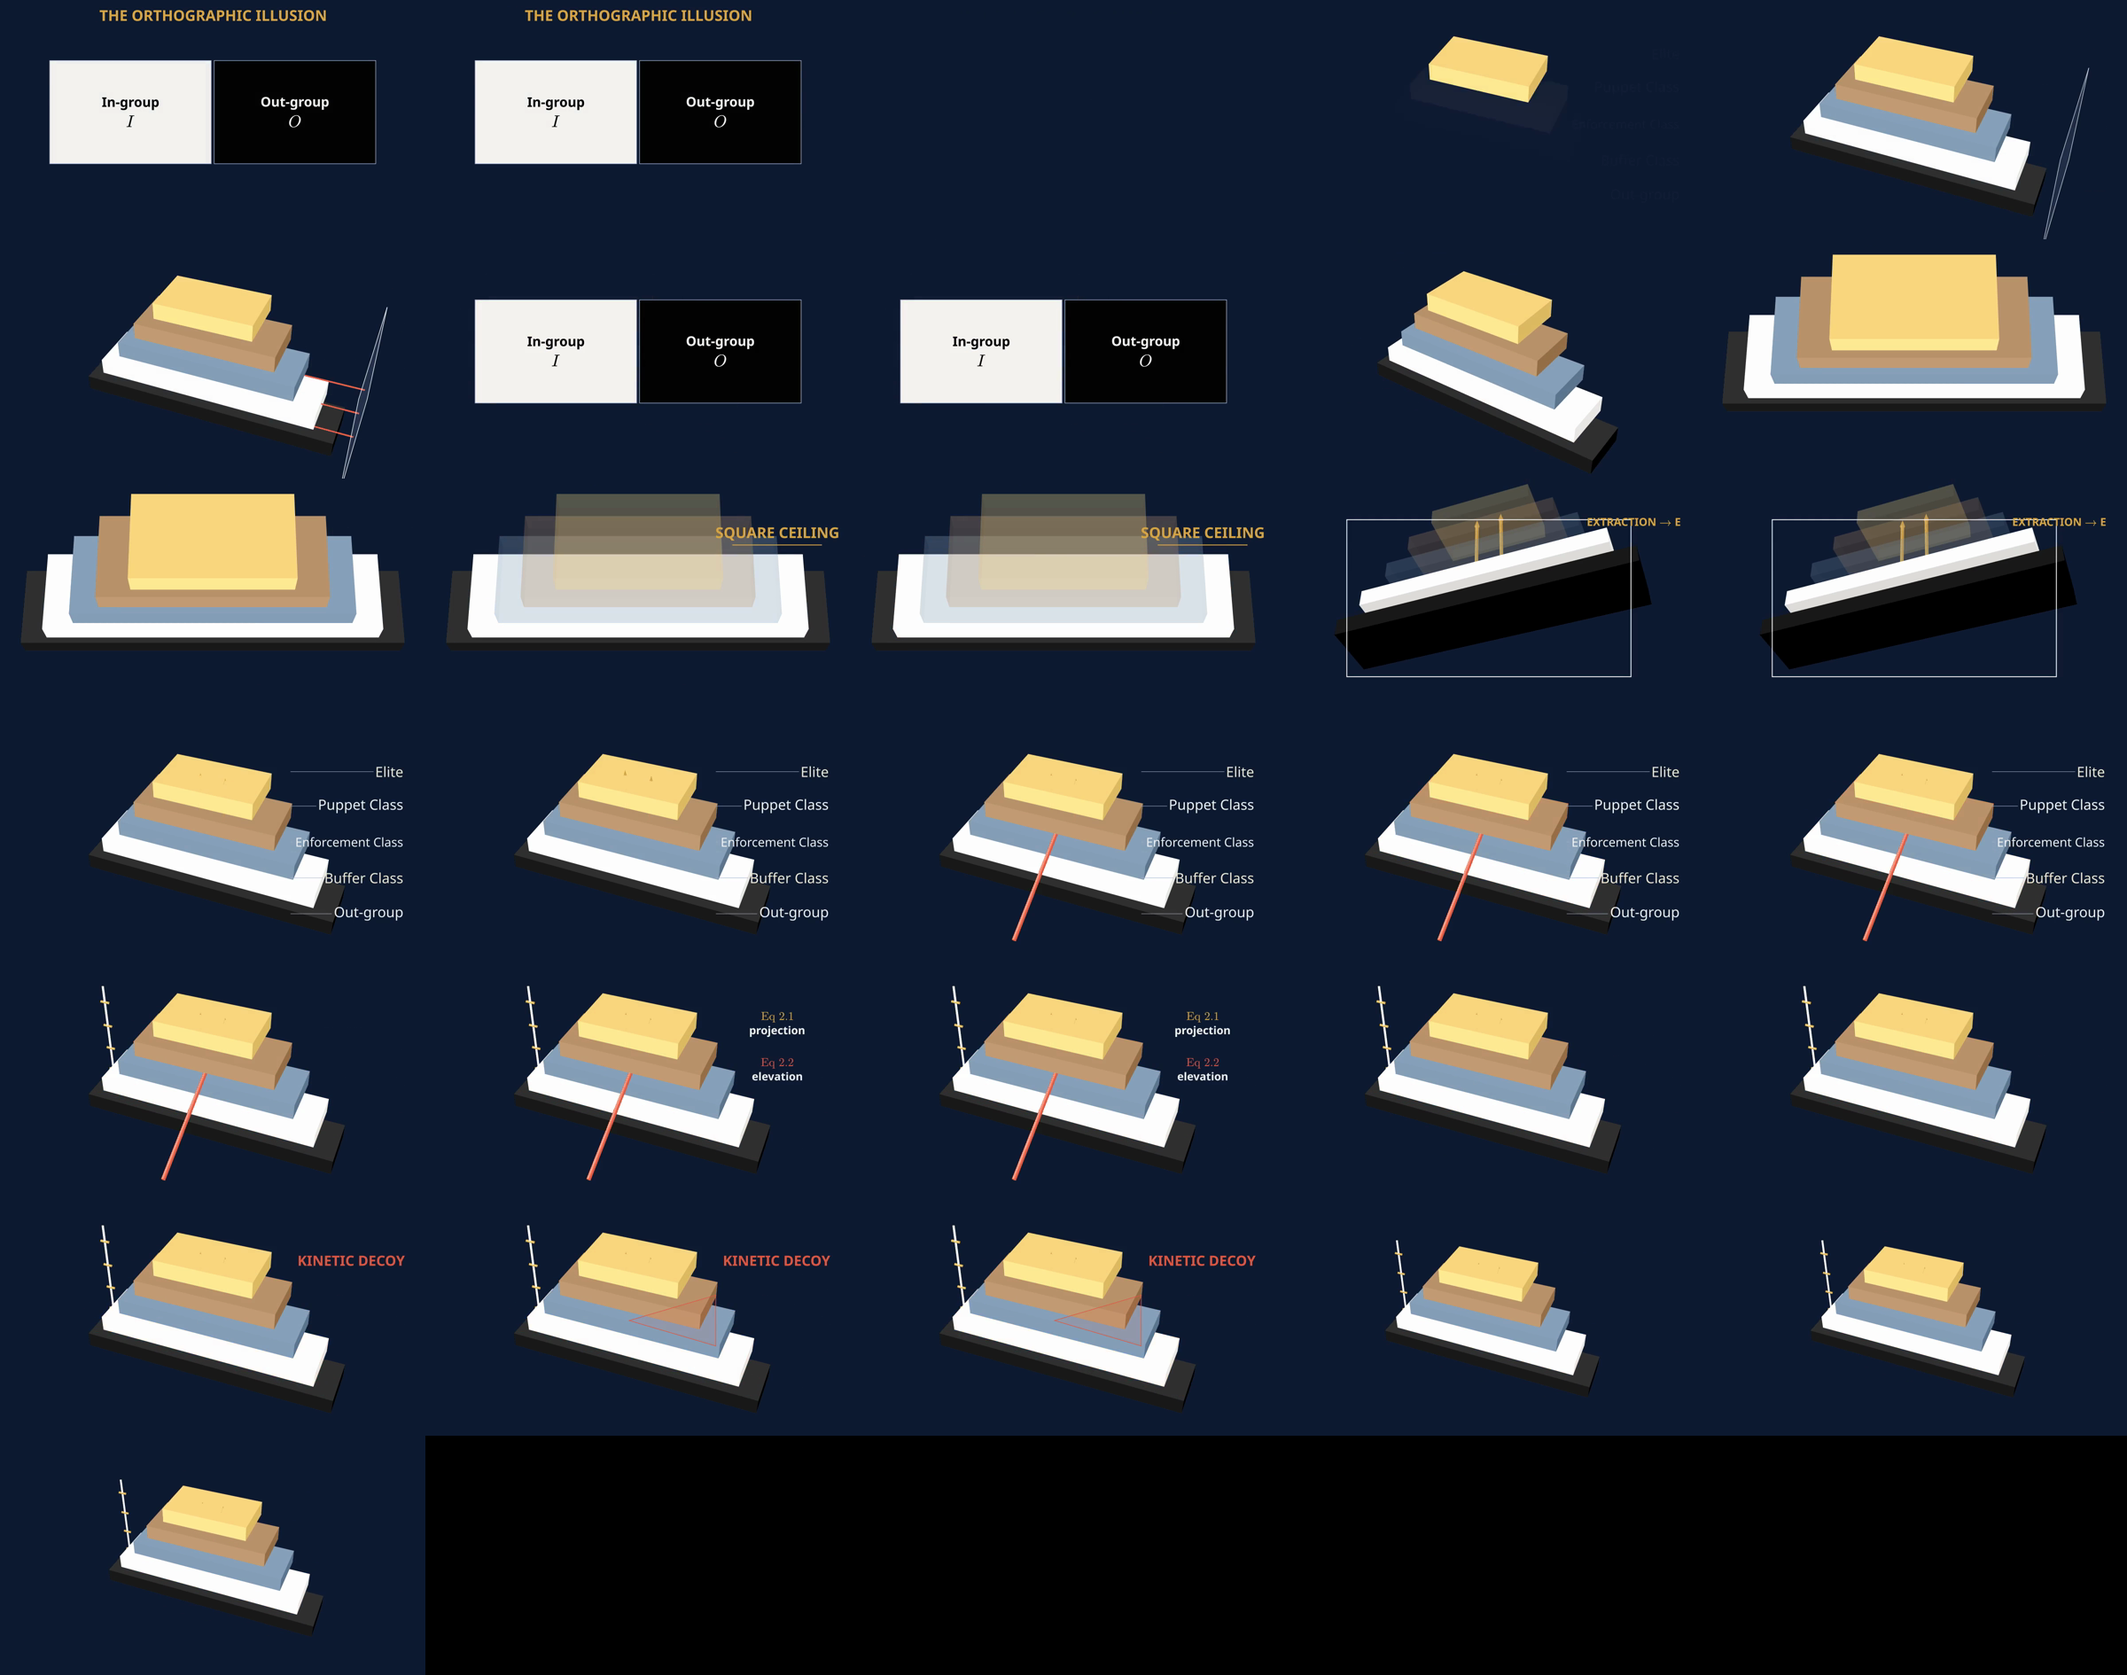
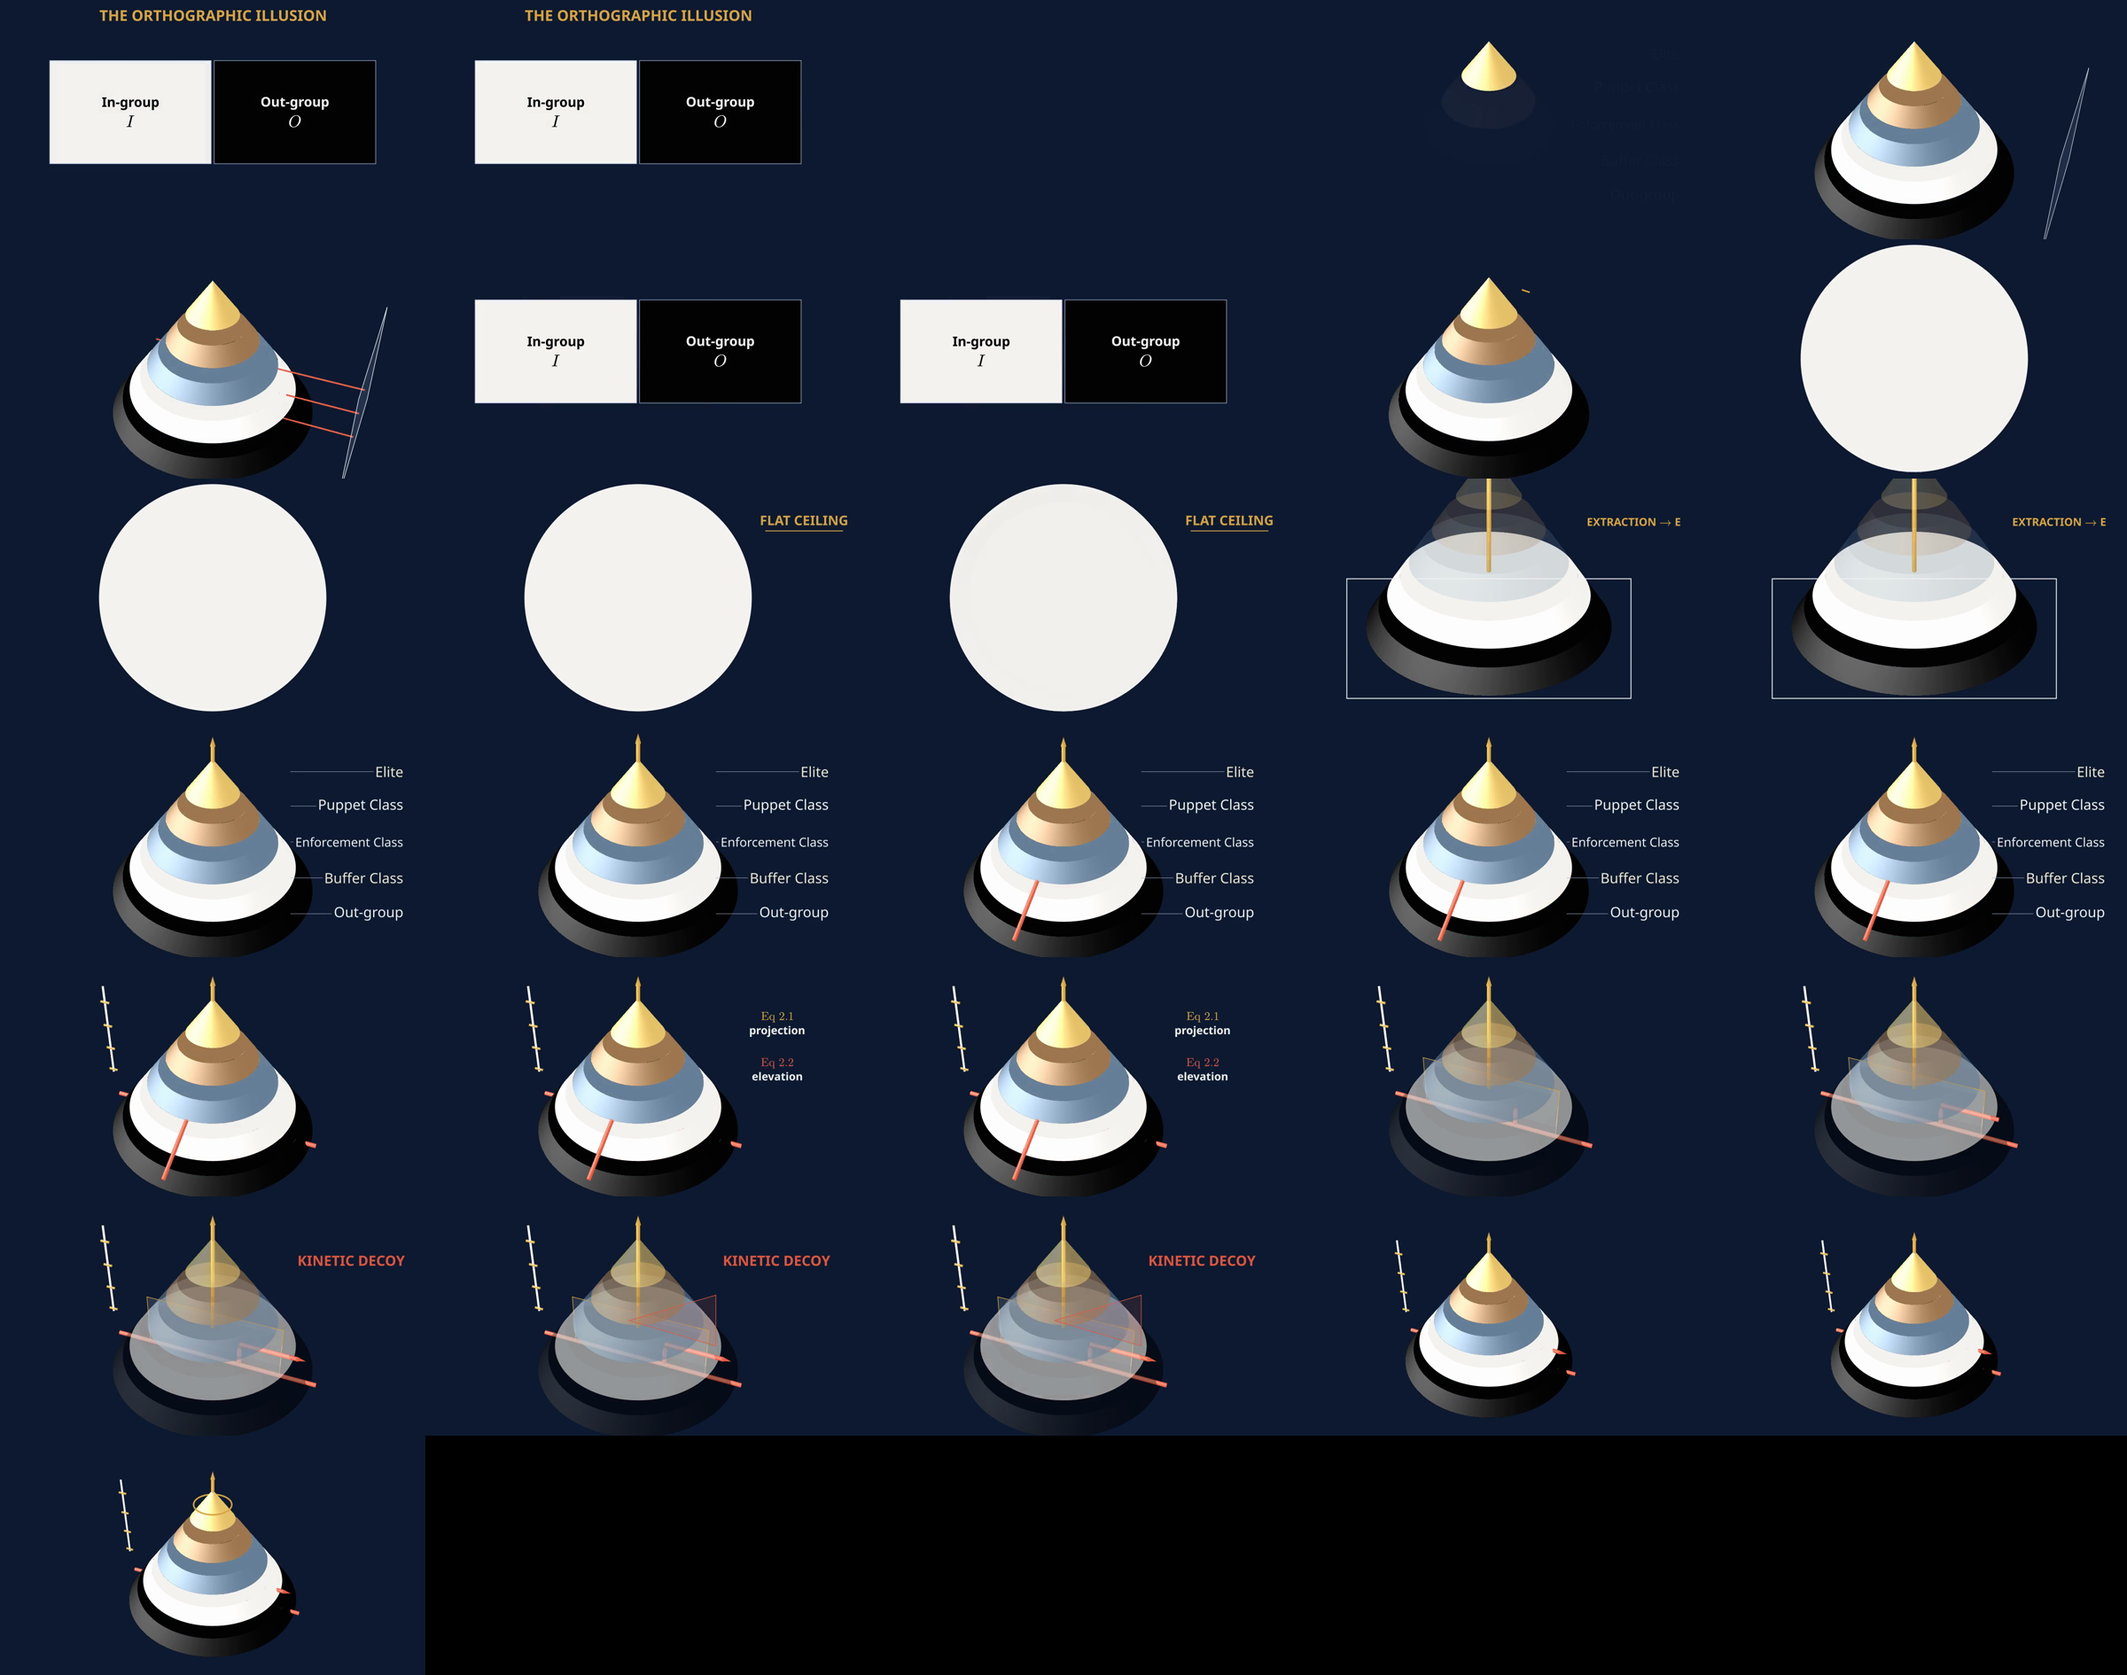
[video] YT02v2: the hierarchy is a cone; Square Ceiling becomes Flat Ceiling
WHAT: ortho_illusion.py builds five conical frustum tiers (E apex on the
z-axis, O the enclosed base) in place of the YT01 slab stack. The up-view
now stands inside O looking up at the Buffer's disc (the Flat Ceiling),
the down-view looks from the Buffer level, a single extraction arrow
leaves through E's tip, and the cone ghosts during the deflection beats.
Script: "pyramid" -> "cone" in 7 turns, "Square Ceiling" -> "Flat Ceiling".
L48's "inverted pyramid" (the dictionary order) is unchanged.
WHY: Author decision, 2026-10-22: the 3-D model is a cone, in the book too.
BUILD: edit16x9.py check 0 problems; SEG 07 strict-cue render OK.
RISK: Audio still says "pyramid"/"Square Ceiling" until the episode is
re-recorded with Phonon. The beat-6 cue uses "Ceiling", which both carry.

diff --git a/Architecting_the_operation/video/yt02/ortho_illusion.py b/Architecting_the_operation/video/yt02/ortho_illusion.py
@@ -4,6 +4,7 @@ import sys
 from pathlib import Path
 
 import manimgx as m
+import numpy as np
 
 COMMON = Path(__file__).resolve().parents[1] / "yt01_redefining_racism/manim"
 YT02 = Path(__file__).resolve().parent
@@ -15,12 +16,46 @@ from orthographic16x9 import (  # noqa: E402
     D,
     PYRAMID_X,
     Orthographic16x9,
-    _build_pyramid,
+    S,
     _horizontal_split,
     _legend_group,
     _split_setup,
 )
 from tier_pyramid import ELITE, FORCE, NIGHT, PAPER, PUPPET  # noqa: E402
+
+# The book's 3-D model is a cone: E at the apex on the z-axis, O the enclosed base.
+# Same heights as the YT01 slab stack, so the camera moves and callouts still frame it.
+CONE_BASE_Z, CONE_APEX_Z, CONE_RADIUS = -0.76 * S, 2.95 * S, 2.6 * S
+TIER_BANDS = ((-0.76, -0.34, NIGHT), (-0.06, 0.36, PAPER), (0.64, 1.06, FORCE),
+              (1.34, 1.76, PUPPET), (2.04, 2.95, ELITE))
+
+
+def _radius(z):
+    return CONE_RADIUS * (CONE_APEX_Z - z) / (CONE_APEX_Z - CONE_BASE_Z)
+
+
+def _cap(z, color):
+    disc = m.Circle(radius=_radius(z), fill_color=color, fill_opacity=1, stroke_width=0)
+    return disc.move_to([PYRAMID_X, 0, z])
+
+
+def _frustum(z0, z1, color):
+    """One conical tier: the side wall plus flat discs top and bottom."""
+    side = m.Surface(
+        lambda u, v: [PYRAMID_X + _radius(v) * np.cos(u), _radius(v) * np.sin(u), v],
+        u_range=(0, m.TAU), v_range=(z0, z1), resolution=(48, 2),
+        checkerboard_colors=False, fill_color=color, fill_opacity=1, stroke_width=0,
+    )
+    parts = [side, _cap(z0, color)]
+    if _radius(z1) > 1e-3:
+        parts.append(_cap(z1, color))
+    return m.VGroup(*parts)
+
+
+def _build_cone():
+    """Out-group base through Elite apex, as five frustums with thin gaps."""
+    tiers = [_frustum(z0 * S, z1 * S, color) for z0, z1, color in TIER_BANDS]
+    return m.VGroup(*tiers), tiers
 
 
 class OrthoIllusion(YTScene3D):
@@ -28,7 +63,7 @@ class OrthoIllusion(YTScene3D):
 
     def shot_S07_01(self):
         Orthographic16x9._lights(self)
-        tiers, slabs = _build_pyramid()
+        tiers, slabs = _build_cone()
         out, buf, enf, pup, eli = slabs
         for slab in slabs:
             slab.set_opacity(0)
@@ -107,35 +142,38 @@ class OrthoIllusion(YTScene3D):
         apex_rim = m.SurroundingRectangle(eli, color=GOLD, buff=0.06, stroke_width=5)
         self.play(m.Create(apex_rim), m.Indicate(eli, color=ELITE), run_time=0.75)
 
-        # 5 — occupy the base and look upward into the Buffer underside.
+        # 5 — stand inside O and look straight up: the Buffer's underside fills the view.
         self.until(self.at(5, "upward"))
-        self.play(m.FadeOut(apex_rim), run_time=0.25)
-        self.move_camera(phi=22 * D, theta=-90 * D, zoom=1.42,
-                         frame_center=[PYRAMID_X, 0, 0.05], run_time=1.15)
+        self.play(m.FadeOut(apex_rim), out.animate.set_opacity(0), run_time=0.35)
+        self.move_camera(phi=178 * D, theta=-90 * D, zoom=1.3,
+                         frame_center=[PYRAMID_X, 0, 0.0], run_time=1.2)
         self.until(self.at(5, "Buffer"))
-        self.play(m.Indicate(buf, color=PAPER), run_time=0.65)
+        self.play(m.Indicate(buf, color=PAPER, scale_factor=1.03), run_time=0.65)
 
-        # 6 — the nearest surface becomes the Square Ceiling; upper tiers remain ghosts.
-        self.until(self.at(6, "Square"))
-        ceiling = T("SQUARE CEILING", 38, GOLD).move_to([4.65, 2.15, 0])
-        ceiling_rule = m.Line([3.15, 1.78, 0], [6.15, 1.78, 0], color=GOLD, stroke_width=3)
+        # 6 — the Buffer underside becomes the Flat Ceiling; upper tiers remain ghosts.
+        self.until(self.at(6, "Ceiling"))
+        ceiling = T("FLAT CEILING", 34, GOLD).move_to([5.55, 2.6, 0])
+        ceiling_rule = m.Line([4.25, 2.25, 0], [6.85, 2.25, 0], color=GOLD, stroke_width=3)
         self.flat(ceiling, ceiling_rule)
-        self.play(m.FadeIn(ceiling), m.Create(ceiling_rule),
-                  *[s.animate.set_opacity(0.16) for s in (enf, pup, eli)], run_time=0.75)
-        self.until(self.at(6, "binary"))
-        self.play(m.Indicate(buf, color=GOLD), run_time=0.55)
+        self.play(m.FadeIn(ceiling), m.Create(ceiling_rule), run_time=0.75)
+        self.until(self.at(6, "align"))
+        # Ghost the ceiling: every higher tier sits centred behind it on the same axis.
+        self.play(buf.animate.set_opacity(0.08), run_time=0.7)
+        self.until(self.beat_end(6) - 0.45)
+        self.play(buf.animate.set_opacity(1), run_time=0.4)
 
         # 7 — reverse the look; extraction exits a visible frame above the observer.
         self.until(self.at(7, "downward"))
         self.play(m.FadeOut(ceiling), m.FadeOut(ceiling_rule), run_time=0.3)
-        self.move_camera(phi=132 * D, theta=-70 * D, zoom=1.12,
-                         frame_center=[PYRAMID_X, 0, -0.2], run_time=1.1)
-        extraction = m.VGroup(*[
-            m.Arrow3D([PYRAMID_X + dx, 0, -0.45], [PYRAMID_X + dx, 0, 3.45],
-                      color=GOLD, thickness=0.055)
-            for dx in (-0.42, 0.42)
-        ])
-        frame = m.Rectangle(width=9.5, height=5.25, stroke_color=PAPER, stroke_width=3)
+        # From the Buffer's level, looking down: the upper tiers drop out of view.
+        self.move_camera(phi=58 * D, theta=-90 * D, zoom=1.15, frame_center=[PYRAMID_X, 0, -0.4],
+                         added_anims=[out.animate.set_opacity(1),
+                                      *[t.animate.set_opacity(0.12) for t in (enf, pup, eli)]],
+                         run_time=1.1)
+        # One arrow up the axis, leaving the cone through E's tip.
+        extraction = m.VGroup(m.Arrow3D([PYRAMID_X, 0, 0.5], [PYRAMID_X, 0, CONE_APEX_Z + 0.75],
+                                        color=GOLD, thickness=0.06))
+        frame = m.Rectangle(width=9.5, height=4.0, stroke_color=PAPER, stroke_width=3).move_to([0, -1.35, 0])
         outside = T("EXTRACTION → E", 27, GOLD).move_to([4.85, 2.55, 0])
         self.flat(frame, outside)
         self.play(m.Create(extraction), m.FadeIn(frame), run_time=0.8)
@@ -188,7 +226,8 @@ class OrthoIllusion(YTScene3D):
 
         # 12 — vertical momentum hits the Buffer plane and bends ninety degrees.
         self.until(self.at(12, "Orthogonal"))
-        self.play(m.FadeOut(eq21), m.FadeOut(eq22), m.FadeOut(sightline), run_time=0.3)
+        self.play(m.FadeOut(eq21), m.FadeOut(eq22), m.FadeOut(sightline),
+                  *[t.animate.set_opacity(0.35) for t in slabs], run_time=0.4)
         up_arrow = m.Arrow3D([PYRAMID_X + 1.0, 0, -0.8], [PYRAMID_X + 1.0, 0, 0.05],
                              color=HER, thickness=0.075)
         deflect_plane = m.Rectangle(width=5.0, height=2.0, fill_color=PAPER, fill_opacity=0.12,
@@ -218,7 +257,8 @@ class OrthoIllusion(YTScene3D):
 
         # 15 — wide view retains local collision and uninterrupted extraction.
         self.until(self.at(15, "wide"))
-        self.play(m.FadeOut(decoy), m.FadeOut(cone), m.FadeOut(deflect_plane), run_time=0.3)
+        self.play(m.FadeOut(decoy), m.FadeOut(cone), m.FadeOut(deflect_plane),
+                  *[t.animate.set_opacity(1) for t in slabs], run_time=0.4)
         self.move_camera(phi=52 * D, theta=-68 * D, zoom=0.82,
                          frame_center=[PYRAMID_X, 0, 1.0], run_time=1.0)
         self.until(self.at(15, "capture"))

diff --git a/Architecting_the_operation/podcasts/YT02_v2_what_racism_is.md b/Architecting_the_operation/podcasts/YT02_v2_what_racism_is.md
@@ -500,7 +500,7 @@ We can audit the American racial hierarchy against each of those five requiremen
 <!-- [book Ch 0; Ch 2; Ch 4] -->
 
 Emmanuel Theodore (09:17)
-What makes racism count as a system at all? Requirement one is a set of differentiated components with specialized roles. Chapter 0 and Equation two point two define five structural tiers arranged in a three-dimensional pyramid in Figure zero point two and an extraction circuit in Figure zero point three.
+What makes racism count as a system at all? Requirement one is a set of differentiated components with specialized roles. Chapter 0 and Equation two point two define five structural tiers arranged in a three-dimensional cone in Figure zero point two and an extraction circuit in Figure zero point three.
 <!-- [book Ch 0, Fig 0.2, Fig 0.3; §2.1, Eq 2.2] -->
 
 Emmanuel Theodore (09:31)
@@ -675,7 +675,7 @@ The decomposition preserves the racial In-group as a set while exposing the uneq
 <!-- [book §2.1, Eq 2.2] -->
 
 Emmanuel Theodore (17:15)
-Why resolve the Out-group after refining the In-group? Next, Equation two point three applies the same resolution lens to the Out-group O so that the base of the pyramid is analyzed with equal precision.
+Why resolve the Out-group after refining the In-group? Next, Equation two point three applies the same resolution lens to the Out-group O so that the base of the cone is analyzed with equal precision.
 <!-- [book §2.1, Eq 2.3] -->
 
 Emmanuel Theodore (17:25)
@@ -769,15 +769,15 @@ Why does public debate still sound binary after the set ladder exposed five tier
 <!-- [book Ch 0, Elite Obscuration and the Orthographic Illusion] -->
 
 Emmanuel Theodore (21:16)
-Picture the Segment five hierarchy as a three-dimensional pyramid. The Elite occupies the apex, with the Puppet, Enforcement, and Buffer tiers and the racialized Out-group descending beneath it.
+Picture the Segment five hierarchy as a three-dimensional cone. The Elite occupies the apex, with the Puppet, Enforcement, and Buffer tiers and the racialized Out-group descending beneath it.
 <!-- [book Ch 0, Fig 0.2] -->
 
 Emmanuel Theodore (21:27)
-Why does depth vanish in a head-on view of the pyramid? Orthographic projection collapses a three-dimensional structure onto a two-dimensional plane along a fixed line of sight. Depth disappears, and layers aligned with that line overlap.
+Why does depth vanish in a head-on view of the cone? Orthographic projection collapses a three-dimensional structure onto a two-dimensional plane along a fixed line of sight. Depth disappears, and layers aligned with that line overlap.
 <!-- [book Ch 0, lines 762-769] -->
 
 Emmanuel Theodore (21:37)
-Viewed head-on, the pyramid becomes two flat groups: a white In-group on one side and a Black Out-group on the other. The vertical command structure vanishes.
+Viewed head-on, the cone becomes two flat groups: a white In-group on one side and a Black Out-group on the other. The vertical command structure vanishes.
 <!-- [book Ch 0, Elite Obscuration and the Orthographic Illusion] -->
 
 Emmanuel Theodore (21:48)
@@ -789,7 +789,7 @@ Pan upward from the Out-group's position inside the base. The observer sees the 
 <!-- [book Ch 0, lines 765-775] -->
 
 Emmanuel Theodore (22:08)
-The book calls that apparent surface the Square Ceiling. It presents society as a simple Oppressor-versus-Oppressed binary because the upper tiers align behind the visible Buffer Class.
+The book calls that apparent surface the Flat Ceiling. It presents society as a simple Oppressor-versus-Oppressed binary because the upper tiers align behind the visible Buffer Class.
 <!-- [book Ch 0, lines 769-785] -->
 
 Emmanuel Theodore (22:18)
@@ -797,7 +797,7 @@ Now pan downward from the In-group's position. The racialized Out-group appears 
 <!-- [book Ch 0, Elite Obscuration and the Orthographic Illusion] -->
 
 Emmanuel Theodore (22:30)
-Zoom out again. The full pyramid reveals the Elite, its Puppet and Enforcement proxies, the Buffer Class, and the Out-group within one connected extraction architecture.
+Zoom out again. The full cone reveals the Elite, its Puppet and Enforcement proxies, the Buffer Class, and the Out-group within one connected extraction architecture.
 <!-- [book Ch 0, Fig 0.2] -->
 
 Emmanuel Theodore (22:40)
@@ -825,7 +825,7 @@ The projection and the deflection reinforce each other. The observer sees the ne
 <!-- [book Ch 0, Elite Obscuration and the Orthographic Illusion] -->
 
 Emmanuel Theodore (23:43)
-The wide shot restores causal depth: visible conflict remains real, while the pyramid locates the tiers that set its boundary conditions and capture its output.
+The wide shot restores causal depth: visible conflict remains real, while the cone locates the tiers that set its boundary conditions and capture its output.
 <!-- [book Ch 0; §2.1] -->
 
 Emmanuel Theodore (23:53)
